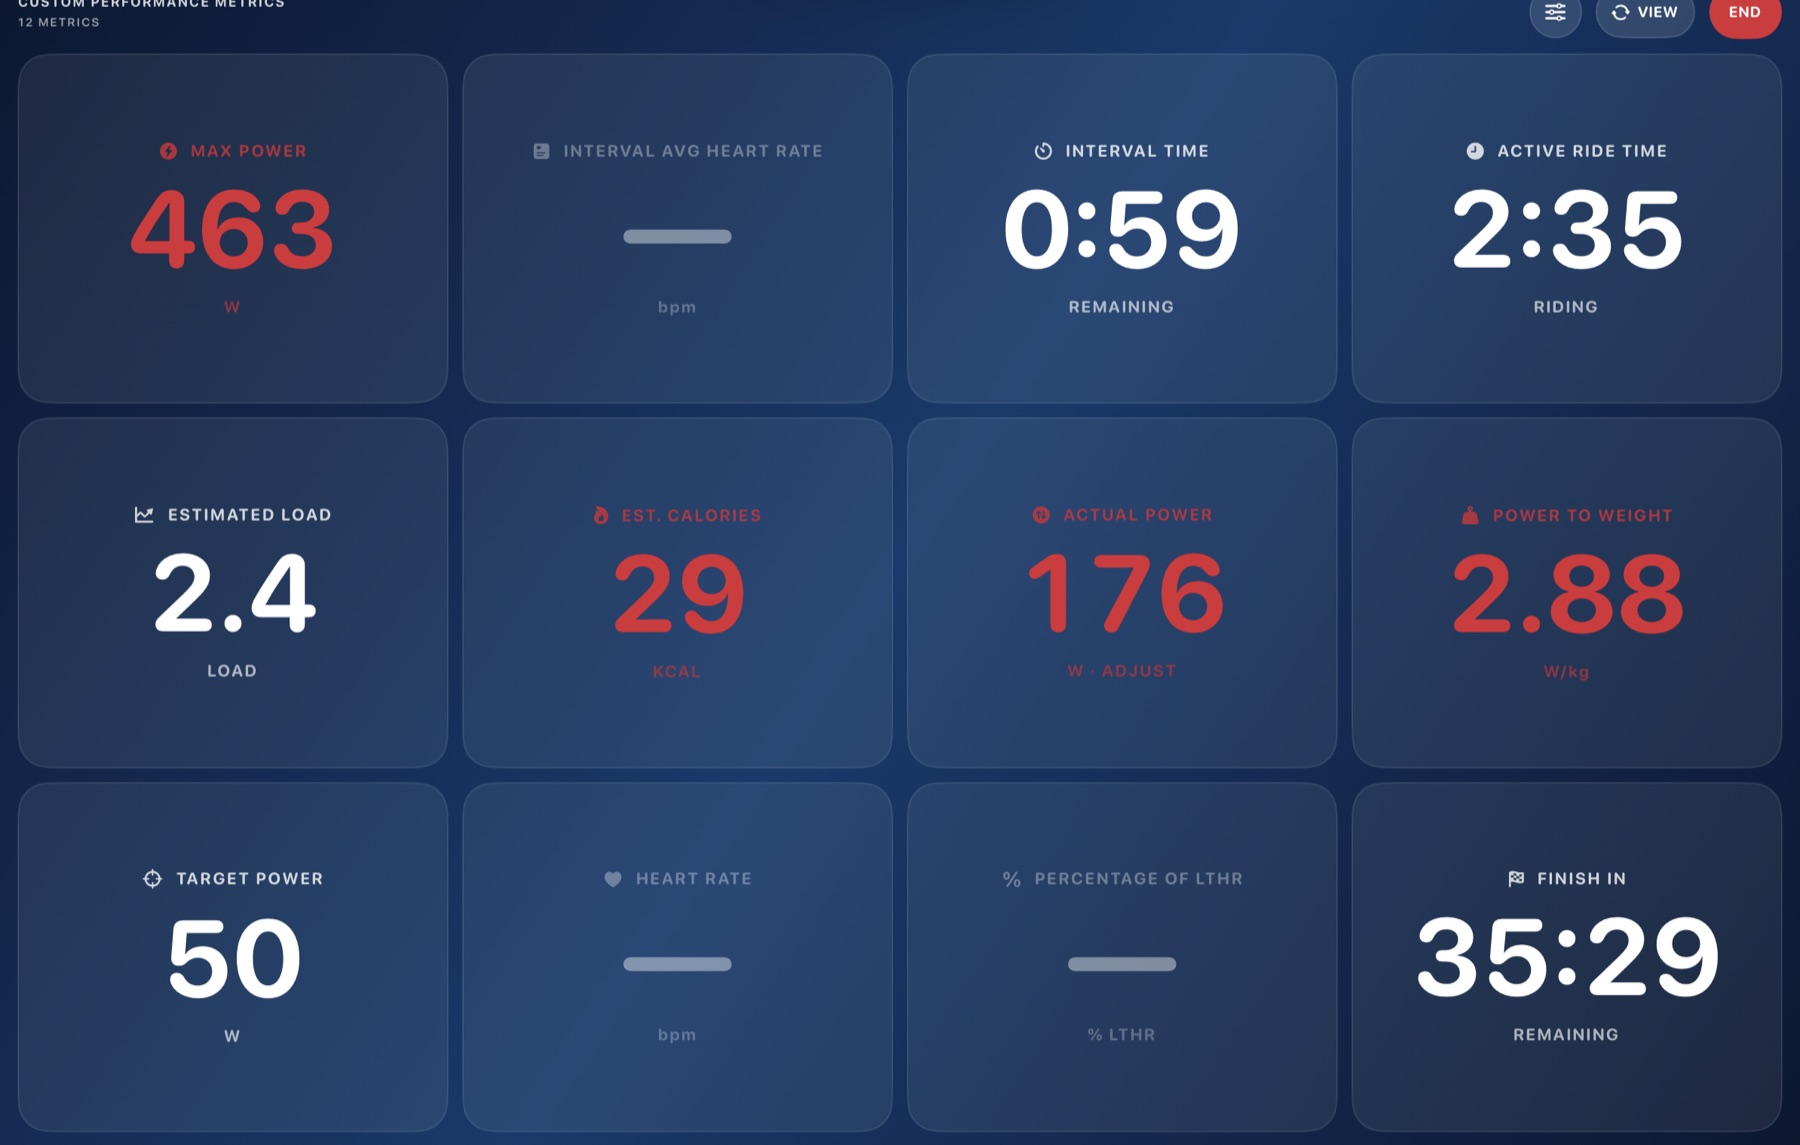
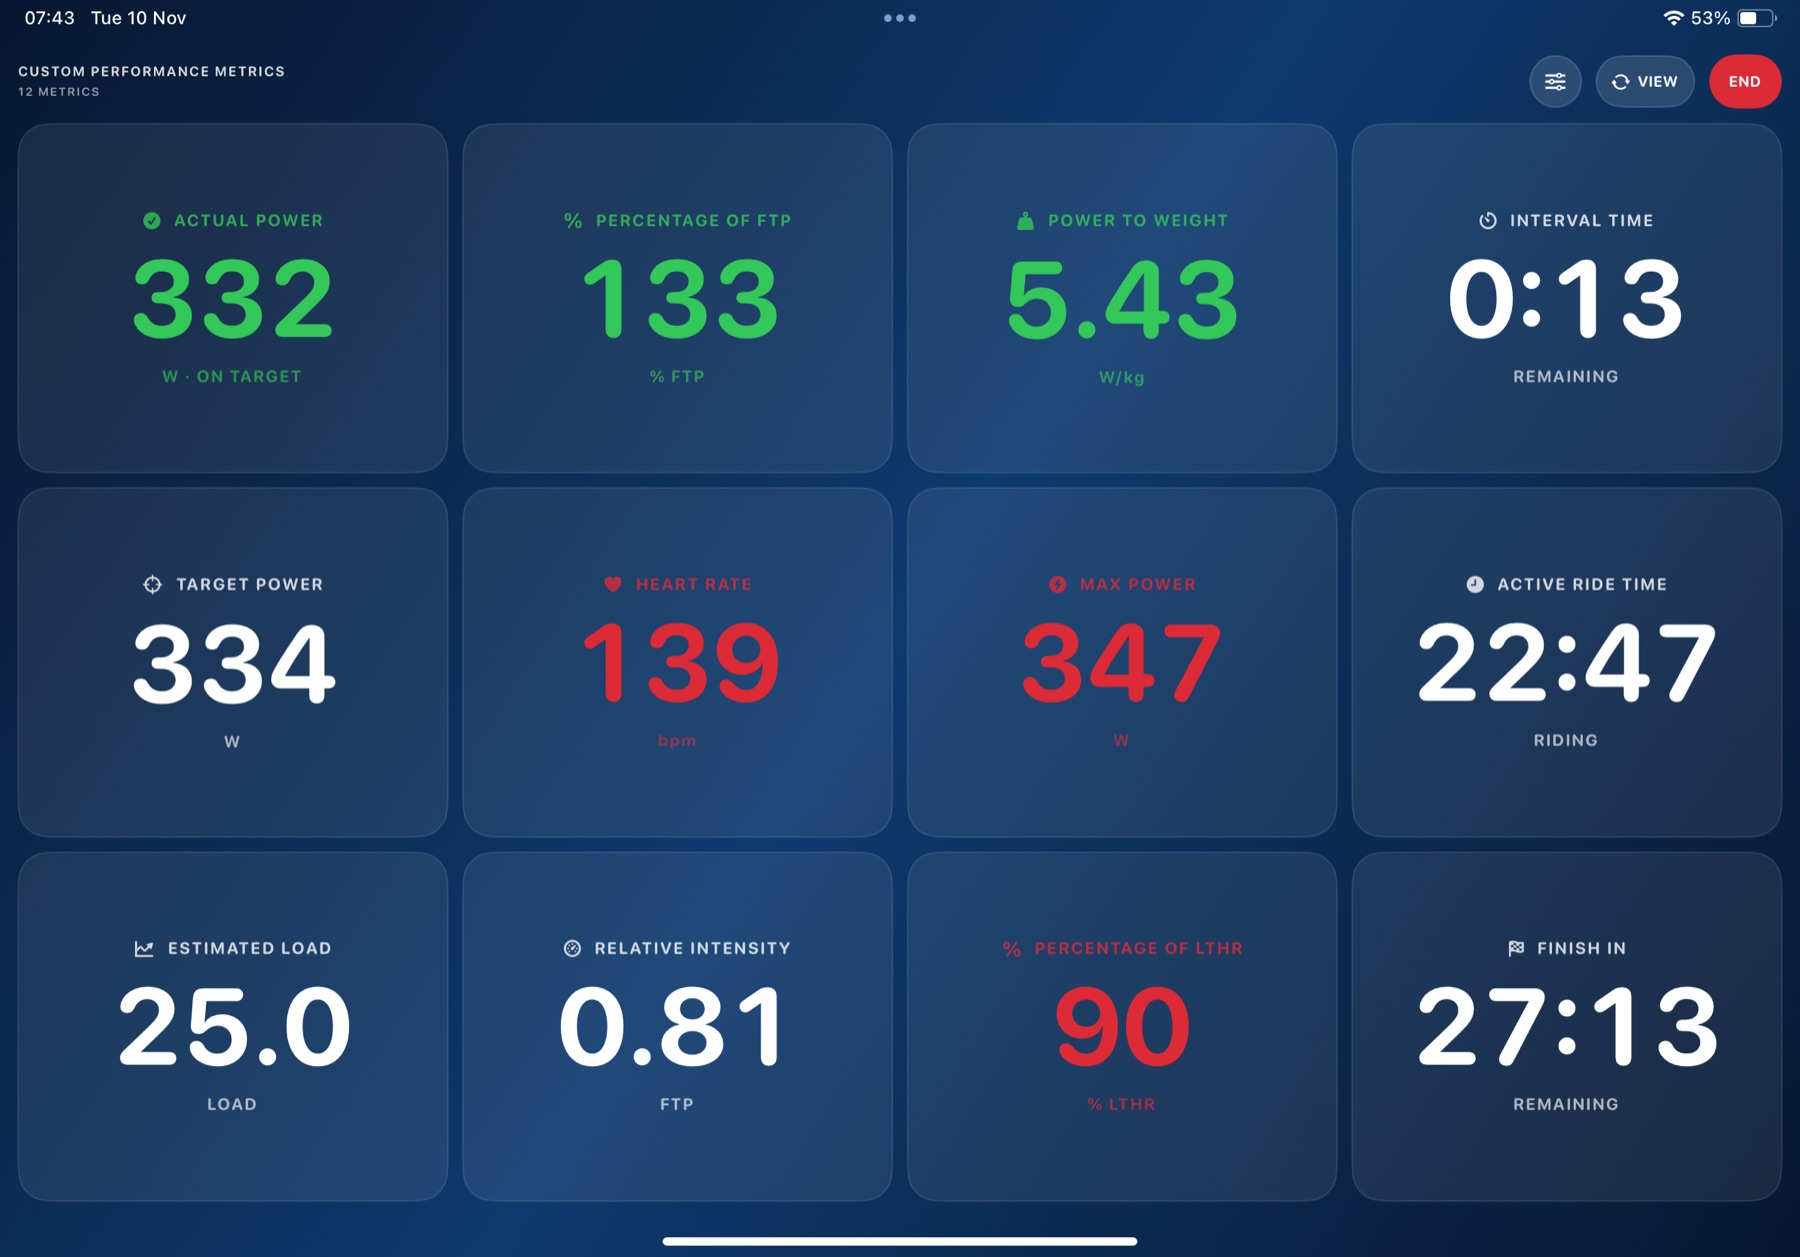
updated images to show custom metrics

diff --git a/assets/css/ride-overview.css b/assets/css/ride-overview.css
@@ -15,7 +15,7 @@
 .workout-showcase{color:#fff;background:linear-gradient(135deg,#040d20,#082a60 64%,#0b4bb3)}.light-heading{max-width:780px}.light-heading p{color:#d2dff2}.landscape-shot{overflow:hidden;border:1px solid rgba(255,255,255,.16);border-radius:25px;background:#fff;box-shadow:0 32px 80px rgba(0,0,0,.28)}.landscape-shot img{width:100%}.landscape-shot figcaption{display:flex;justify-content:space-between;gap:1rem;padding:.9rem 1.1rem;color:#52617a;background:#fff;font-size:.76rem}.landscape-shot figcaption span:first-child{color:var(--navy);font-weight:850}.workout-points{display:grid;grid-template-columns:repeat(3,1fr);gap:1rem;margin-top:1.2rem}.workout-points article{display:grid;gap:.15rem;padding:1rem;border:1px solid rgba(255,255,255,.14);border-radius:18px;background:rgba(255,255,255,.06)}.workout-points b{color:#fff}.workout-points span{color:#c4d2e8;font-size:.84rem}
 .ride-view-list{display:grid;gap:.7rem;margin-top:1.5rem}.ride-view-list article{display:grid;gap:.16rem;padding:.9rem 1rem;border:1px solid rgba(255,255,255,.14);border-radius:16px;background:rgba(255,255,255,.06)}.ride-view-list b{color:#fff}.ride-view-list span{color:#c4d2e8;font-size:.84rem}.workout-showcase .product-row{grid-template-columns:minmax(0,1.25fr) minmax(280px,.55fr)}
 .max-metrics-showcase{overflow:hidden;background:linear-gradient(180deg,#eef4fc,#fff)}.max-metrics-heading{max-width:820px}.max-metrics-flow{display:flex;flex-wrap:wrap;align-items:center;gap:.55rem;margin:1.5rem 0 2rem}.max-metrics-flow span{padding:.48rem .78rem;border:1px solid #cad7e9;border-radius:999px;color:var(--navy);background:#fff;font-size:.76rem;font-weight:850}.max-metrics-flow i{color:var(--red);font-style:normal;font-weight:900}.performance-feature-shot{margin:0 0 1.35rem;overflow:hidden;border:1px solid #b9c9de;border-radius:28px;background:#082952;box-shadow:0 22px 60px rgba(7,22,48,.16)}.performance-feature-shot img{display:block;width:100%;height:auto}.performance-feature-shot figcaption,.custom-metrics-feature figcaption,.custom-config-card figcaption{display:grid;gap:.2rem;padding:1rem 1.15rem 1.15rem;background:#fff}.performance-feature-shot strong,.custom-metrics-feature strong,.custom-config-card strong{color:var(--navy);font-size:.94rem}.performance-feature-shot span,.custom-metrics-feature span,.custom-config-card span{color:var(--muted);font-size:.8rem;line-height:1.45}.max-metrics-grid{display:grid;grid-template-columns:repeat(2,minmax(0,1fr));gap:1.35rem}.performance-detail-grid{grid-template-columns:repeat(3,minmax(0,1fr))}.max-metrics-card{margin:0;overflow:hidden;border:1px solid var(--line);border-radius:24px;background:#fff;box-shadow:0 18px 48px rgba(7,22,48,.1)}.max-metrics-card img{display:block;width:100%;height:auto;aspect-ratio:2387/1353;object-fit:cover;background:#082952}.max-metrics-card figcaption{display:grid;gap:.18rem;padding:1rem 1.15rem 1.15rem}.max-metrics-card strong{color:var(--navy);font-size:.94rem}.max-metrics-card span{color:var(--muted);font-size:.8rem;line-height:1.45}
-.custom-metrics-showcase{overflow:hidden;color:#fff;background:radial-gradient(circle at 78% 24%,rgba(44,124,245,.34),transparent 30rem),linear-gradient(135deg,#040d20,#082a60 68%,#0b4bb3)}.custom-metrics-layout{display:grid;grid-template-columns:minmax(290px,.68fr) minmax(520px,1.32fr);align-items:center;gap:clamp(2.5rem,6vw,5rem)}.custom-metrics-showcase .lead{color:#d0def1}.custom-metrics-feature,.custom-config-card{margin:0;overflow:hidden;border:1px solid rgba(255,255,255,.18);border-radius:26px;background:#082952;box-shadow:0 30px 70px rgba(0,0,0,.28)}.custom-metrics-feature img,.custom-config-card img{display:block;width:100%;height:auto}.custom-config-grid{display:grid;grid-template-columns:repeat(2,minmax(0,1fr));gap:1.35rem;margin-top:clamp(2rem,5vw,4rem)}
+.custom-metrics-showcase{overflow:hidden;color:#fff;background:radial-gradient(circle at 78% 24%,rgba(44,124,245,.34),transparent 30rem),linear-gradient(135deg,#040d20,#082a60 68%,#0b4bb3)}.custom-metrics-layout{display:grid;grid-template-columns:minmax(290px,.68fr) minmax(520px,1.32fr);align-items:center;gap:clamp(2.5rem,6vw,5rem)}.custom-metrics-showcase .lead{color:#d0def1}.custom-metrics-feature,.custom-config-card{margin:0;overflow:hidden;border:1px solid rgba(255,255,255,.18);border-radius:26px;background:#082952;box-shadow:0 30px 70px rgba(0,0,0,.28)}.custom-metrics-feature img,.custom-config-card img{display:block;width:100%;height:auto}.custom-config-grid{display:grid;grid-template-columns:repeat(2,minmax(0,1fr));gap:1.35rem;margin-top:clamp(2rem,5vw,4rem)}.custom-config-card--wide{grid-column:1/-1}
 .results-grid{grid-template-columns:minmax(310px,.75fr) minmax(0,1.25fr)}.result-shot{border-color:var(--line);box-shadow:var(--shadow)}.result-shot figcaption{display:block}.clean-list{padding:0;list-style:none}.clean-list li{padding:.7rem 0;border-bottom:1px solid var(--line)}.clean-list li::before{content:'✓';margin-right:.65rem;color:var(--red);font-weight:900}
 .zone-grid-showcase{overflow:hidden;background:linear-gradient(180deg,#f5f8fc,#fff)}.zone-grid-intro{display:grid;grid-template-columns:minmax(0,.9fr) minmax(340px,1.1fr);align-items:end;gap:clamp(2rem,6vw,5rem);margin-bottom:2rem}.zone-grid-intro h2{max-width:720px}.zone-grid-intro .lead{margin-bottom:.2rem}.zone-grid-visual{margin:0;overflow:hidden;border:1px solid var(--line);border-radius:26px;background:#fff;box-shadow:0 28px 70px rgba(7,22,48,.14)}.zone-grid-visual img{display:block;width:100%;height:auto}.zone-grid-visual figcaption{display:flex;justify-content:space-between;gap:1.5rem;padding:1rem 1.25rem;color:var(--muted);font-size:.82rem}.zone-grid-visual figcaption span:first-child{color:var(--navy);font-weight:850}.zone-grid-benefits{display:grid;grid-template-columns:repeat(4,1fr);gap:1px;margin-top:1.35rem;overflow:hidden;border:1px solid var(--line);border-radius:18px;background:var(--line)}.zone-grid-benefits span{padding:1rem;background:#fff;color:var(--navy);font-size:.82rem;font-weight:800;text-align:center}.zone-grid-note{max-width:840px;margin:1.35rem auto 0;color:var(--muted);text-align:center}
 .value-section{color:#fff;background:#071630}.value-card{display:grid;grid-template-columns:1fr auto;align-items:center;gap:3rem}.value-card h2{max-width:780px}.value-card p:not(.eyebrow){max-width:780px;color:#cbd9ed}

diff --git a/insideedgeride/ride/index.html b/insideedgeride/ride/index.html
@@ -55,7 +55,7 @@
       <div class="wrap">
         <div class="section-heading max-metrics-heading"><p class="eyebrow dark">Performance Metrics</p><h2>Swipe through the ride. See every number at full scale.</h2><p class="lead">Keep the essential workout targets in front of you, then move continuously through live power, ride averages and heart-rate performance. Large, high-contrast cards stay readable when the effort gets hard.</p></div>
         <div class="max-metrics-flow" aria-label="Performance Metrics screen order"><span>Workout data</span><i aria-hidden="true">→</i><span>Power performance</span><i aria-hidden="true">→</i><span>Ride averages</span><i aria-hidden="true">→</i><span>Heart-rate performance</span><i aria-hidden="true">↻</i></div>
-        <figure class="performance-feature-shot"><img src="../../assets/images/ride-performance-metrics-ipad.jpg" alt="Inside Edge Ride Performance Metrics view on iPad showing actual power, target power, interval time, heart rate and the live workout profile" width="1800" height="1257" loading="lazy" decoding="async"><figcaption><strong>Workout data at riding scale</strong><span>Actual power, target power, remaining interval time and heart rate stay above the live workout profile.</span></figcaption></figure>
+        <figure class="performance-feature-shot"><img src="../../assets/images/ride-performance-metrics-ipad.jpg" alt="Inside Edge Ride Performance Metrics view on iPad showing actual power, target power, interval time, heart rate and a colour-coded live workout profile" width="1800" height="1257" loading="lazy" decoding="async"><figcaption><strong>Workout data at riding scale</strong><span>Actual power, target power, remaining interval time and heart rate stay above the colour-coded live workout profile.</span></figcaption></figure>
         <div class="max-metrics-grid performance-detail-grid">
           <figure class="max-metrics-card"><img src="../../assets/images/ride-max-power-performance.jpg" alt="Inside Edge Ride power performance screen showing live power, averages, maximum power and time in power zones" width="2387" height="1345" loading="lazy" decoding="async"><figcaption><strong>Power performance</strong><span>Live, average and maximum power alongside active time and time in every power zone.</span></figcaption></figure>
           <figure class="max-metrics-card"><img src="../../assets/images/ride-max-averages.jpg" alt="Inside Edge Ride averages screen showing power, heart rate, cadence, speed, intensity, load and calories" width="2387" height="1356" loading="lazy" decoding="async"><figcaption><strong>Ride averages</strong><span>Power, heart rate, cadence, speed, relative intensity, estimated load and calories at a glance.</span></figcaption></figure>
@@ -73,9 +73,10 @@
             <p class="lead">Choose how much information you want and place each metric where you expect to find it. The in-app preview follows the current device orientation so the finished screen is clear before the workout starts.</p>
             <ul class="clean-list on-dark"><li>4 or 6 metrics with the live workout graph</li><li>8 or 12 metrics without the graph</li><li>Portrait and landscape arrangements</li><li>Live, timing and performance measurements</li><li>Real-time interval-average power and heart rate</li></ul>
           </div>
-          <figure class="custom-metrics-feature"><img src="../../assets/images/ride-custom-metrics-12-ipad.jpg" alt="Inside Edge Ride Custom Performance Metrics dashboard showing twelve rider-selected live metrics on iPad" width="1800" height="1145" loading="lazy" decoding="async"><figcaption><strong>Twelve metrics, one glance</strong><span>A finished landscape dashboard built around the rider's own priorities.</span></figcaption></figure>
+          <figure class="custom-metrics-feature"><img src="../../assets/images/ride-custom-metrics-12-ipad.jpg" alt="Inside Edge Ride Custom Performance Metrics dashboard showing twelve rider-selected live metrics on iPad" width="1800" height="1257" loading="lazy" decoding="async"><figcaption><strong>Twelve metrics, one glance</strong><span>A finished landscape dashboard built around the rider's own priorities.</span></figcaption></figure>
         </div>
         <div class="custom-config-grid">
+          <figure class="custom-config-card custom-config-card--wide"><img src="../../assets/images/ride-custom-metrics-6-graph-ipad.jpg" alt="Inside Edge Ride Custom Performance Metrics view showing six rider-selected metrics above the live workout graph" width="1800" height="1257" loading="lazy" decoding="async"><figcaption><strong>Six metrics plus the live workout</strong><span>Combine the measurements you watch most closely with target blocks, actual power and heart-rate traces.</span></figcaption></figure>
           <figure class="custom-config-card"><img src="../../assets/images/ride-custom-metrics-layout-ipad.jpg" alt="Custom Performance Metrics layout selector offering four or six metrics with a graph and eight or twelve metrics without a graph" width="1800" height="1257" loading="lazy" decoding="async"><figcaption><strong>Choose the density</strong><span>Keep the workout graph or dedicate the full display to eight or twelve live readouts.</span></figcaption></figure>
           <figure class="custom-config-card"><img src="../../assets/images/ride-custom-metrics-configure-ipad.jpg" alt="Custom Performance Metrics configuration preview showing twelve selectable metric positions" width="1800" height="1257" loading="lazy" decoding="async"><figcaption><strong>Place every metric</strong><span>Tap a card in the orientation-aware preview and assign the measurement you want there.</span></figcaption></figure>
         </div>
